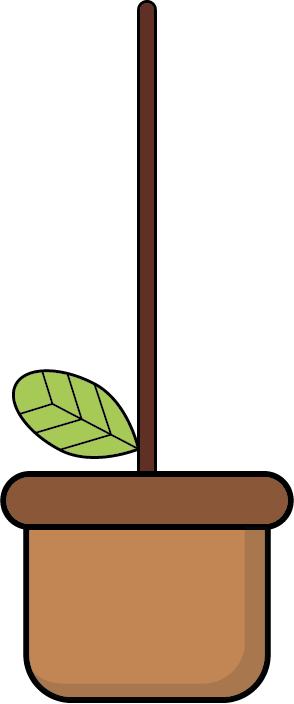
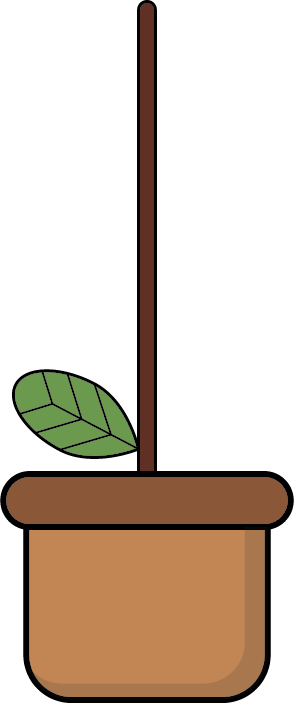
Added brown leaves

Changed region(s): [[0.0306, 0.5312, 0.4592, 0.6562]]

diff --git a/public/resources/scripts/plant.js b/public/resources/scripts/plant.js
@@ -22,7 +22,7 @@ $(function() {
                     $("#navbar").show();
                     $("#user-button").text(profile.name);
                     $("#streak").text("Leaves: " + profile.streak);
-                    $(".plantImage img").attr("src", `resources/images/${profile.streak}leaves.png`);
+                    $(".plantImage img").attr("src", `resources/images/${profile.streak}leaves${profile.perfectWeek ? "" : "Brown"}.png`);
                     $("#remaining").text("Days until next leaf: " + Math.round(7 - (new Date().getTime() - new Date(profile.streakStart).getTime()) / (1000 * 3600 * 24)));
                     $("#plant-page").show();
                 }
